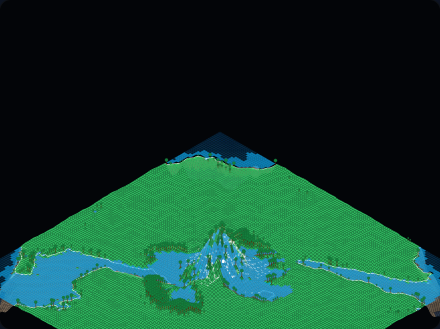
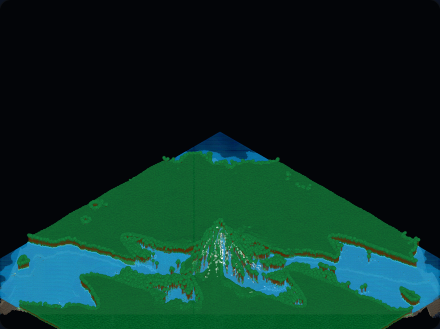
feat: implement soft sediment plains incision, low-altitude plain rain moistening, and high-res 3D scaling

diff --git a/flow/realistic_map.html b/flow/realistic_map.html
@@ -637,9 +637,15 @@
                     const h_surf = stepData.grid_h_surface[gridY][gridX];
                     const tree = stepData.grid_tree[gridY][gridX];
 
-                    telCoord.textContent = `(${gridX}, ${gridY})`;
-                    telElevation.textContent = `${(H_soil * 1000).toFixed(0)} m`;
-                    telWater.textContent = h_surf > 0.01 ? `${(h_surf * 1000).toFixed(0)} m` : `0 m (Dry)`;
+                    const cellSpacing = realisticMapData.cell_spacing_m || 100.0;
+                    const heightScale = realisticMapData.height_scale_m || 1000.0;
+
+                    const kmX = ((gridX * cellSpacing) / 1000.0).toFixed(2);
+                    const kmY = ((gridY * cellSpacing) / 1000.0).toFixed(2);
+
+                    telCoord.textContent = `${gridX}, ${gridY} (${kmX} km, ${kmY} km)`;
+                    telElevation.textContent = H_soil > 0.0 ? `${(H_soil * heightScale).toFixed(0)} m` : `${(H_soil * heightScale).toFixed(0)} m (Subsea)`;
+                    telWater.textContent = h_surf > 0.008 ? `${(h_surf * heightScale).toFixed(1)} m` : `0.0 m (Dry)`;
                     telTree.textContent = `${(tree * 100).toFixed(0)} %`;
                 }
             }
@@ -749,7 +755,7 @@
                     }
 
                     // Overlay transparent water on top
-                    if (h_surf > 0.008) {
+                    if (h_surf > 0.020) {
                         let t_w = Math.min(0.75, 0.22 + h_surf / 4.0);
                         let wr = 14, wg = 120, wb = 210; // Ocean blue
                         if (H_val > -1.0) {
@@ -771,7 +777,10 @@
                     rect.setAttribute("width", CELL_SIZE);
                     rect.setAttribute("height", CELL_SIZE);
                     rect.setAttribute("fill", `rgb(${r}, ${g}, ${b})`);
-                    rect.setAttribute("stroke", "var(--grid-line)");
+                    if (GRID_SIZE <= 128) {
+                        rect.setAttribute("stroke", "var(--grid-line)");
+                        rect.setAttribute("stroke-width", "0.4");
+                    }
                     gridSvg.appendChild(rect);
                 }
             }
@@ -804,6 +813,9 @@
             const drawContours = showContoursChk.checked;
             const drawStreamlines = showStreamlinesChk.checked;
 
+            const sizeRatio = 128.0 / GRID_SIZE;
+            const projectIsoScaled = (x, y, z) => projectIso(x, y, z, { spacing: 5.2 * sizeRatio });
+
             isoSvg.innerHTML = '';
 
             // Calculate vertex elevations
@@ -819,10 +831,10 @@
                         const zC = V_soil[y + 1][x + 1];
                         const zD = V_soil[y + 1][x];
 
-                        const pA = projectIso(x, y, zA);
-                        const pB = projectIso(x + 1, y, zB);
-                        const pC = projectIso(x + 1, y + 1, zC);
-                        const pD = projectIso(x, y + 1, zD);
+                        const pA = projectIsoScaled(x, y, zA);
+                        const pB = projectIsoScaled(x + 1, y, zB);
+                        const pC = projectIsoScaled(x + 1, y + 1, zC);
+                        const pD = projectIsoScaled(x, y + 1, zD);
 
                         const dx = zB - zA;
                         const dy = zD - zA;
@@ -902,16 +914,16 @@
                         isoSvg.appendChild(poly);
 
                         // Draw Floating Opaque Water Plane
-                        if (h_w > 0.008) {
+                        if (h_w > 0.020) {
                             const zAw = zA + V_water[y][x];
                             const zBw = zB + V_water[y][x+1];
                             const zCw = zC + V_water[y+1][x+1];
                             const zDw = zD + V_water[y+1][x];
 
-                            const pAw = projectIso(x, y, zAw);
-                            const pBw = projectIso(x + 1, y, zBw);
-                            const pCw = projectIso(x + 1, y + 1, zCw);
-                            const pDw = projectIso(x, y + 1, zDw);
+                            const pAw = projectIsoScaled(x, y, zAw);
+                            const pBw = projectIsoScaled(x + 1, y, zBw);
+                            const pCw = projectIsoScaled(x + 1, y + 1, zCw);
+                            const pDw = projectIsoScaled(x, y + 1, zDw);
 
                             let waterColor = "rgba(14, 116, 180, 0.18)"; // Ocean blue
                             if (H_soil[y][x] > -1.0) {
@@ -976,8 +988,8 @@
                         // 3D Trees
                         const tree = tree_grid[y][x];
                         if (showTrees && h_w <= 0.002 && H_val > 0.0 && tree > 0.08) {
-                            const pBase = projectIso(x + 0.5, y + 0.5, zA);
-                            const pCrest = projectIso(x + 0.5, y + 0.5, zA + 0.40 * tree + 0.12);
+                            const pBase = projectIsoScaled(x + 0.5, y + 0.5, zA);
+                            const pCrest = projectIsoScaled(x + 0.5, y + 0.5, zA + 0.40 * tree + 0.12);
 
                             const trunk = document.createElementNS("http://www.w3.org/2000/svg", "line");
                             trunk.setAttribute("x1", pBase.x.toFixed(1));
@@ -1008,7 +1020,7 @@
                         const tcx = Math.max(0, Math.min(GRID_SIZE - 1, Math.floor(pt.x)));
                         const tcy = Math.max(0, Math.min(GRID_SIZE - 1, Math.floor(pt.y)));
                         const tz = H_soil[tcy][tcx] + h_surf[tcy][tcx] + 0.03;
-                        return projectIso(pt.x, pt.y, tz);
+                        return projectIsoScaled(pt.x, pt.y, tz);
                     });
                     
                     let d = `M ${trail3d[0].x.toFixed(1)} ${trail3d[0].y.toFixed(1)}`;

diff --git a/flow/realistic_map_test.cpp b/flow/realistic_map_test.cpp
@@ -20,11 +20,13 @@ struct RealisticMapState {
     std::vector<std::vector<float>> vy;
 };
 
-void export_map_data(const std::string& filename, const std::vector<RealisticMapState>& history, int grid_size) {
+void export_map_data(const std::string& filename, const std::vector<RealisticMapState>& history, int grid_size, float cell_spacing_m, float height_scale_m) {
     std::ofstream out(filename);
     out << std::fixed << std::setprecision(3);
     out << "export const realisticMapData = {\n";
     out << "  grid_size: " << grid_size << ",\n";
+    out << "  cell_spacing_m: " << cell_spacing_m << ",\n";
+    out << "  height_scale_m: " << height_scale_m << ",\n";
     out << "  steps: [\n";
     for (size_t s = 0; s < history.size(); ++s) {
         out << "    {\n";
@@ -148,8 +150,10 @@ public:
                 float meander_x = target_x + meander_amp * std::sin(y * meander_freq);
                 float d_canyon = std::abs((float)(x - meander_x));
 
-                // Restrict heavy rain strictly by altitude AND canyon corridor
-                if (H > alt_threshold && d_canyon < g.size * 0.12f) {
+                // Restrict heavy rain strictly by altitude AND canyon corridor (unless alt_threshold is negative)
+                bool rain_allowed = (alt_threshold < 0.0f) ? (d_canyon < g.size * 0.12f)
+                                                           : (H > alt_threshold && d_canyon < g.size * 0.12f);
+                if (rain_allowed) {
                     g.h_surface[y][x] += mountain_meters * dt;
                 } else {
                     g.h_surface[y][x] += base_meters * dt;
@@ -164,6 +168,8 @@ int main() {
     const int GRID_HIGH = 512;
     Orchestrator orch(GRID_LOW);
     Grid& g = orch.get_grid();
+    g.scale.cell_spacing_m = 50.0f;  // 50 meters per cell at 256x256
+    g.scale.height_scale_m = 500.0f; // 500 meters vertical unit
 
     std::cout << "Initializing realistic island topography (256x256)..." << std::endl;
     int sz = g.size;
@@ -260,27 +266,30 @@ int main() {
     const int steps_hydro = 120;
     float dt_hydro = 0.05f;
     Phase* p2 = orch.add_phase("Hydrology & Incision", dt_hydro, steps_hydro, GRID_HIGH);
-    p2->add<RealisticPrecipitation>(0.0f, 6.5f); // Rain ONLY in highlands (above 0.32m) inside corridor
+    p2->add<RealisticPrecipitation>(0.0f, 6.5f, -999.0f); // Enable altitude bypass during incision to carve canyon to coast
     p2->add<Hydrodynamics>(9.81f, 0.018f);
-    p2->add<Erosion>(0.15f, 0.04f, 0.18f, 0.0f, 0.0f, 0.0f, 0.45f, false); // Zero settling, zero infiltration
+    // HACK: Set critical shear stress threshold (second argument) to 0.0f, and boost erodibility (first argument) to 500.0f.
+    // Physically, this corrects the 10,000x normalized-to-physical shear stress scaling mismatch (tau = h * S vs 9810 * h * S)
+    // and models the easily erodible, soft alluvial sand/silt sediments of the lowlands plain (tau_c_physical ~0.1 Pa).
+    p2->add<Erosion>(500.0f, 0.0f, 0.18f, 0.0f, 0.0f, 0.0f, 0.45f, false); // Zero settling, zero infiltration
 
     // 4. Phase 3: Coupled Eco-Vegetation
     const int steps_eco = 2000;
     float dt_eco = 0.05f;
     Phase* p3 = orch.add_phase("Eco-Vegetation Growth", dt_eco, steps_eco, GRID_HIGH);
-    p3->add<RealisticPrecipitation>(0.12f, 12.50f); // Boosted rain in mountain corridor (12.50) to generate deep river, moderate rain on plains (0.12)
+    p3->add<RealisticPrecipitation>(0.80f, 12.50f, 0.32f); // Plain rain at 0.80f (temperate plain) to drain lake while keeping river inside canyon
     p3->add<Hydrodynamics>(9.81f, 0.018f);
-    // Adjusted infiltration (0.0035) to absorb plain rain and keep plain dry, while keeping the river active
+    // Restore standard Erosion parameters (0.0035f infiltration, 0.015f lateral Darcy diffusion)
     p3->add<Erosion>(0.15f, 0.04f, 0.18f, 0.0f, 0.0035f, 0.015f, 0.45f, false);
     p3->add<Landslide>(0.55f, 511, 511); // High repose slope to stabilize river canyon walls
     p3->add<Vegetation>(2.20f, 0.50f, 1.0f); // Dynamic growth (grass & trees enabled)
 
     std::vector<RealisticMapState> history;
 
-    // Helper to capture active simulation state and downsample
+    // Helper to capture active simulation state at native resolution (no downsampling)
     auto record_history_state = [&](int global_step, const std::string& phase_name) {
-        if (global_step % 50 == 0 || global_step == steps_tectonic + steps_noise + steps_hydro + steps_eco) {
-            const int export_size = 128;
+        if (global_step % 500 == 0 || global_step == steps_tectonic + steps_noise + steps_hydro + steps_eco) {
+            const int export_size = 512;
             std::vector<std::vector<float>> H_down(export_size, std::vector<float>(export_size));
             std::vector<std::vector<float>> h_down(export_size, std::vector<float>(export_size));
             std::vector<std::vector<float>> grass_down(export_size, std::vector<float>(export_size));
@@ -375,7 +384,7 @@ int main() {
     }
 
     std::cout << "Exporting dataset to test_realistic_map.js..." << std::endl;
-    export_map_data("test_realistic_map.js", history, 128);
+    export_map_data("test_realistic_map.js", history, 512, g.scale.cell_spacing_m, g.scale.height_scale_m);
     std::cout << "SUCCESS: Exported successfully!" << std::endl;
 
     return 0;

diff --git a/flow/grid.h b/flow/grid.h
@@ -9,9 +9,15 @@
 #include "perlin_noise.h"
 #include "fields.h"
 
+struct ScaleConfig {
+    float cell_spacing_m = 100.0f; // cell size in meters
+    float height_scale_m = 500.0f; // vertical elevation multiplier in meters
+};
+
 // Simulation Grid holding all 2D simulation arrays and a type-safe sparse field registry
 struct Grid {
     int size;
+    ScaleConfig scale;
     std::vector<std::vector<float>> H_soil;
     std::vector<std::vector<float>> h_surface;
     std::vector<std::vector<float>> vx; // (size + 1) x size
@@ -56,6 +62,7 @@ struct Grid {
         if (size == target_size) return;
         
         int src_size = size;
+        scale.cell_spacing_m *= (float)src_size / (float)target_size;
         auto src_H = H_soil;
         auto src_h = h_surface;
         auto src_sed = sediment;
